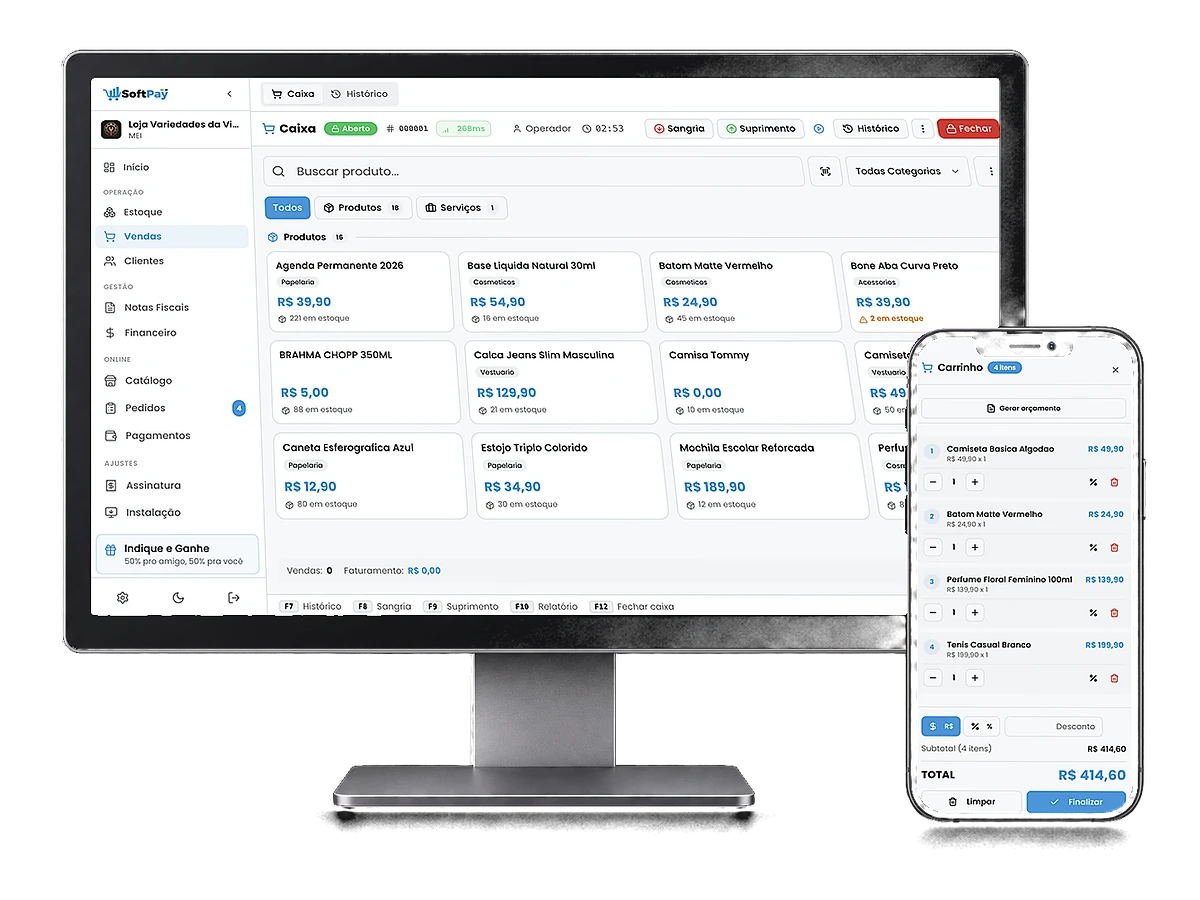
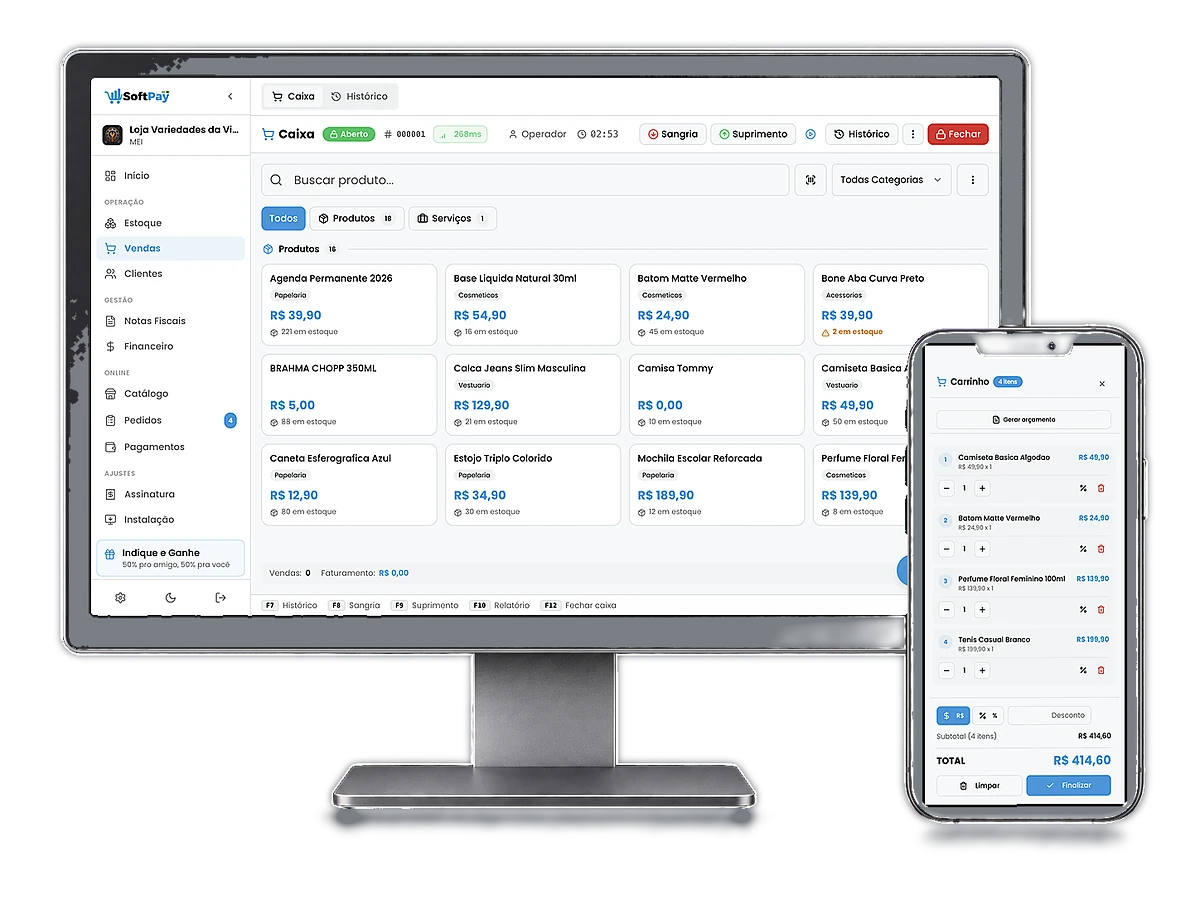
hero do celular: a tela do monitor entra reta
A peça aparelhos-2 (topo da home no celular e do clone /campanha/pdv/) tinha a
tela do monitor torta do lado direito: os cantos eram o ponto da máscara mais
perto de cada canto, e o celular tapava um deles; e o coeficiente da
perspectiva estava invertido. Tela vista de frente agora entra reta na caixa
da máscara (reto=True), e a perspectiva usa origem = cantos da captura,
destino = cantos medidos. Sombra e borda do recorte suavizadas.

Changed region(s): [[0.0308, 0.0311, 0.9558, 0.9333], [0.2775, 0.84, 0.6475, 0.9333], [0.37, 0.7778, 0.4008, 0.84]]

diff --git a/public/index.html b/public/index.html
@@ -247,7 +247,7 @@
                     <!-- CELULAR E TABLET: a peça renderizada, com as capturas reais
                          encaixadas nas telas por perspectiva (tools/peca-hero.py).
                          É ela que resolve a moldura que ele apontou. -->
-                    <img class="hero__peca" src="/assets/hero/aparelhos-2-1200.webp?v=bc9ac209bc"
+                    <img class="hero__peca" src="/assets/hero/aparelhos-2-1200.webp?v=c0ea9f8cc0"
                          width="1200" height="900" fetchpriority="high" decoding="async"
                          alt="O SoftPay aberto num monitor e num celular: o PDV com o carrinho fechando em R$ 414,60" />
                 </figure>

diff --git a/tools/peca-hero-celular.py b/tools/peca-hero-celular.py
@@ -59,7 +59,17 @@ def coef(origem, destino):
         A.append([0, 0, 0, xd, yd, 1, -ys * xd, -ys * yd]); B.append(ys)
     return np.linalg.solve(np.array(A, float), np.array(B, float))
 
-def encaixar(base, mask, tela):
+def encaixar(base, mask, tela, reto=False):
+    """reto=True: a tela está de FRENTE e parcialmente COBERTA por outro aparelho.
+
+    Até 25/09/2026 o monitor também passava pela perspectiva, com os cantos
+    tirados da máscara verde. Só que o celular cobre o canto inferior direito
+    do monitor: o ponto verde mais perto desse canto ficava na borda do
+    celular, ~110px para a esquerda, e a perspectiva espremia a captura para
+    dentro daquele trapézio — o lado direito da tela saía TORTO (o Victor
+    apontou duas vezes). Tela de frente não tem perspectiva nenhuma: a captura
+    ocupa a caixa inteira e a máscara só recorta o que o celular tapa.
+    """
     mask = dilatar(mask)
     quad, (x0, y0, x1, y1) = cantos(mask)
     lw, lh = x1 - x0 + 1, y1 - y0 + 1
@@ -67,7 +77,13 @@ def encaixar(base, mask, tela):
     # a redução é grande (o PDV inteiro cabe num monitor de 253px na página):
     # sem realce, o traço fino da fonte some e a tela vira mancha cinza
     img = tela.resize((lw, lh), Image.LANCZOS).filter(ImageFilter.UnsharpMask(radius=1.1, percent=85, threshold=2))
-    c = coef([(x - x0, y - y0) for x, y in quad], [(0, 0), (lw - 1, 0), (lw - 1, lh - 1), (0, lh - 1)])
+    if reto:
+        base.paste(img, (x0, y0), Image.fromarray((mask[y0:y1 + 1, x0:x1 + 1] * 255).astype('uint8')))
+        return lw, lh
+    # PERSPECTIVE leva o pixel de SAÍDA (a caixa) ao de ENTRADA (a captura):
+    # origem = cantos da captura, destino = cantos medidos. Estava invertido até
+    # 25/09/2026; no celular, quase retangular, a diferença não aparecia.
+    c = coef([(0, 0), (lw - 1, 0), (lw - 1, lh - 1), (0, lh - 1)], [(x - x0, y - y0) for x, y in quad])
     warp = img.transform((lw, lh), Image.PERSPECTIVE, tuple(c), Image.BICUBIC)
     base.paste(warp, (x0, y0), Image.fromarray((mask[y0:y1 + 1, x0:x1 + 1] * 255).astype('uint8')))
     return lw, lh
@@ -162,12 +178,22 @@ def main():
     celular.paste(car2, ((larg - car2.width) // 2, faixa))
 
     base = peca.copy()
-    print('monitor', encaixar(base, verde, monitor), 'de', monitor.size)
+    print('monitor', encaixar(base, verde, monitor, reto=True), 'de', monitor.size)
     print('celular', encaixar(base, magenta, celular), 'de', celular.size)
 
     arr = np.asarray(base).astype(np.float32)
     alpha = np.clip((arr.max(axis=2) - 6.0) / 16.0, 0, 1)
     alpha[dilatar(verde) | dilatar(magenta)] = 1.0
+    # A sombra de contato do render vem com o grão do fundo preto: sobre o
+    # branco da página ela aparecia pontilhada (medido ampliado, 25/09/2026).
+    # Fora dos aparelhos o alfa é desfocado — sombra lisa —, e dentro deles
+    # (tudo o que tem luz de verdade) a borda continua nítida.
+    corpo = dilatar(arr.max(axis=2) > 48, 3)
+    liso = np.asarray(Image.fromarray((alpha * 255).astype('uint8')).filter(ImageFilter.GaussianBlur(5))).astype(np.float32) / 255
+    alpha = np.where(corpo, alpha, np.minimum(liso, 0.55))
+    # pixel de sombra pura (sem aparelho) vira cinza-noite, não o grão do render
+    sombra = ~corpo
+    arr[sombra] = [14, 22, 32]
     final = Image.fromarray(np.dstack([arr, alpha * 255]).astype('uint8'), 'RGBA')
     final.save(SAIDA / 'aparelhos-2.webp', quality=88, method=6)
     menor = final.resize((1200, round(1200 * final.height / final.width)), Image.LANCZOS)
